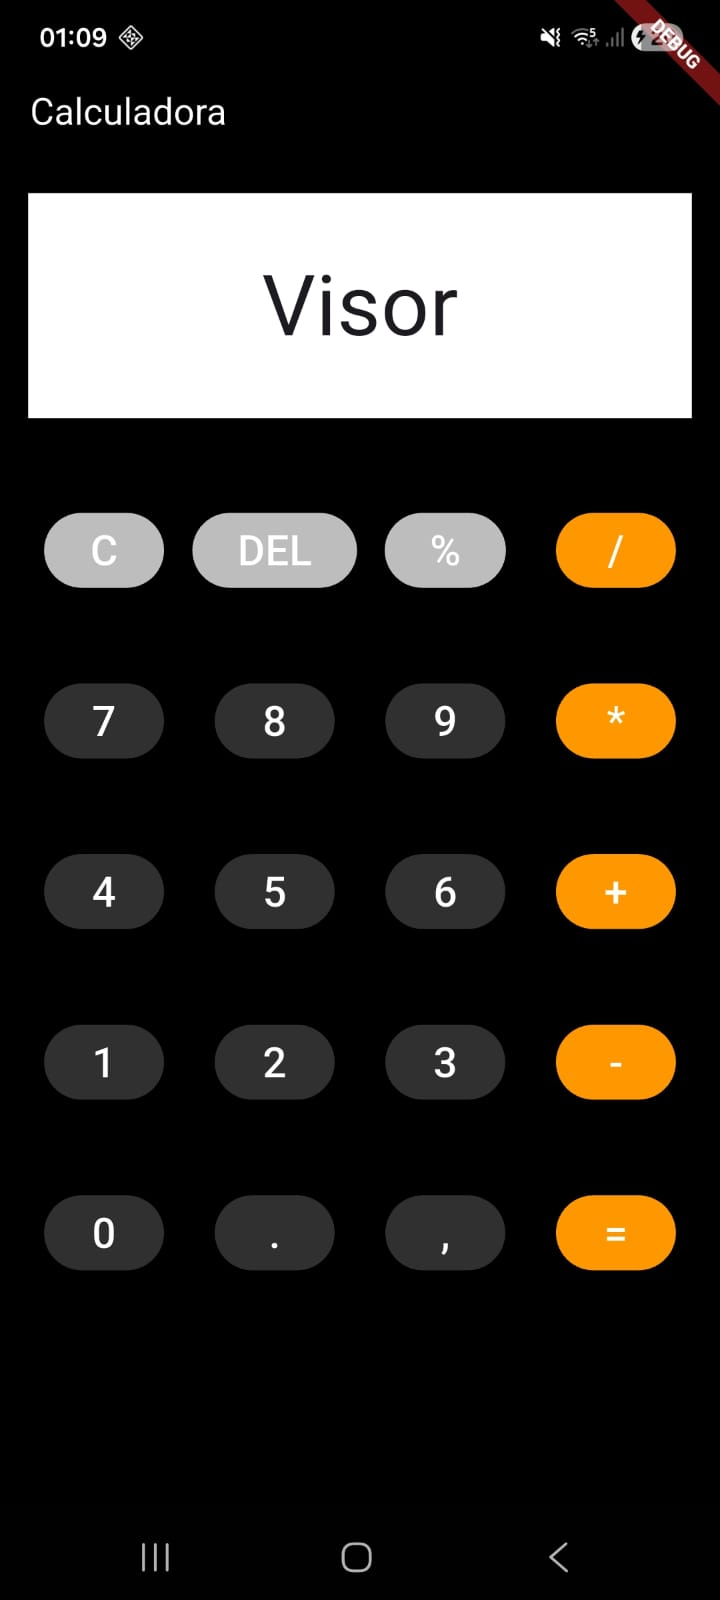
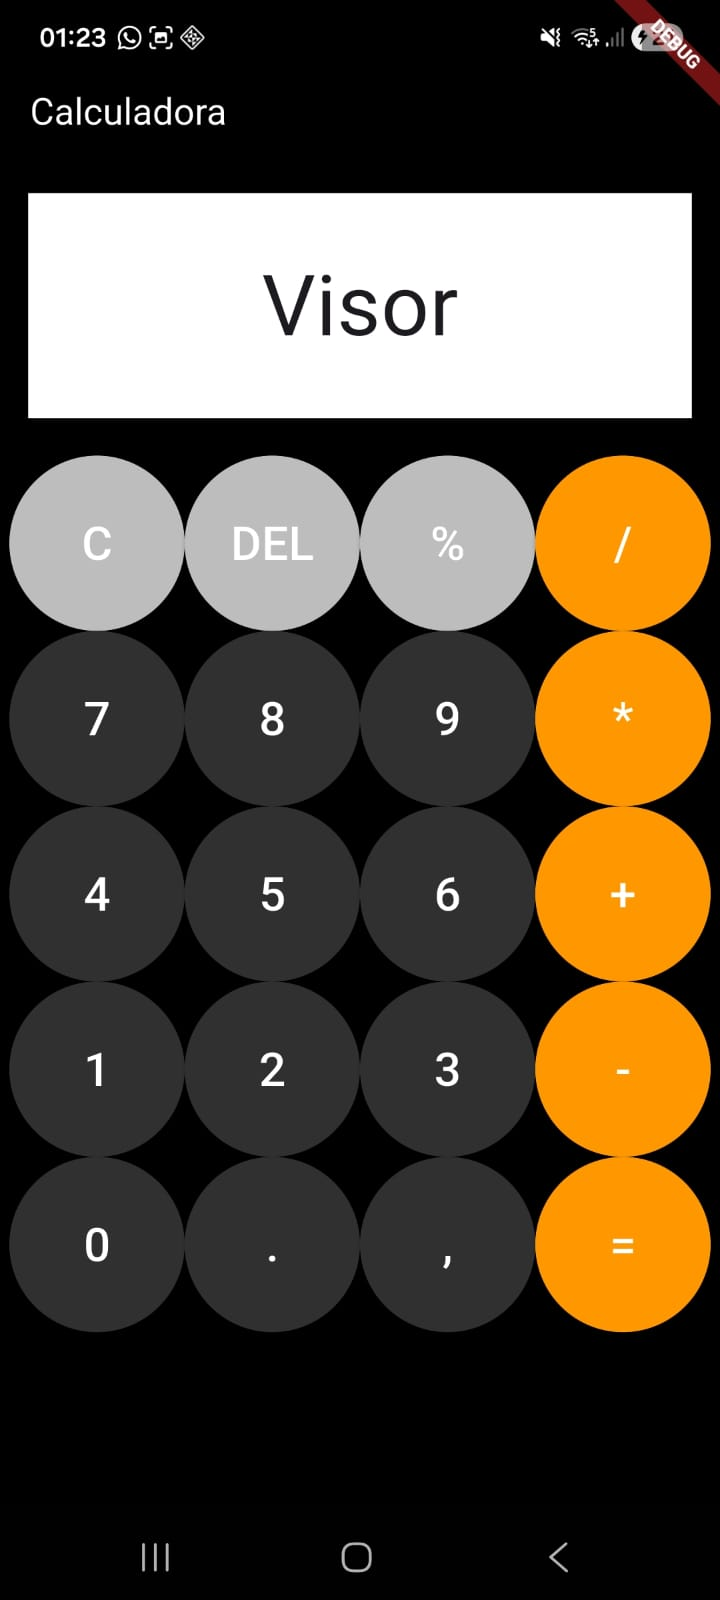
aula 20 desafio visual calculadora Anexo em /desafios

Changed region(s): [[0.0, 0.2812, 1.0, 0.8438], [0.0917, 0.0, 0.275, 0.0312], [0.8861, 0.0, 0.9167, 0.0312]]

diff --git a/lib/calculadora.dart b/lib/calculadora.dart
@@ -28,9 +28,9 @@ class Calculadora extends StatelessWidget {
             ),
             Container(
               width: double.infinity,
-              height: 500,
+              height: 600,
               color: Colors.black,
-              margin: EdgeInsets.all(10),
+              margin: EdgeInsets.all(5),
               child: GridView.count(
                 crossAxisCount: 4,
                 children: List.generate(botoes.length, (index) {
@@ -55,9 +55,11 @@ class Calculadora extends StatelessWidget {
                       style: ElevatedButton.styleFrom(
                         backgroundColor: corDoBotao, // Cor de fundo
                         foregroundColor: Colors.white, // Cor do texto/ícone
+                        minimumSize: const Size(double.infinity,
+                            double.infinity), // Ocupa todo o espaço disponível
                       ),
                       child: Text(
-                        style: TextStyle(fontSize: 25),
+                        style: TextStyle(fontSize: 28),
                         botao,
                       ),
                     ),
